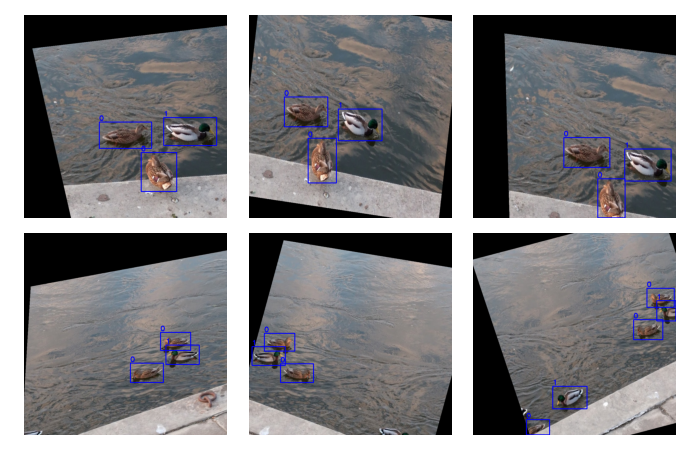
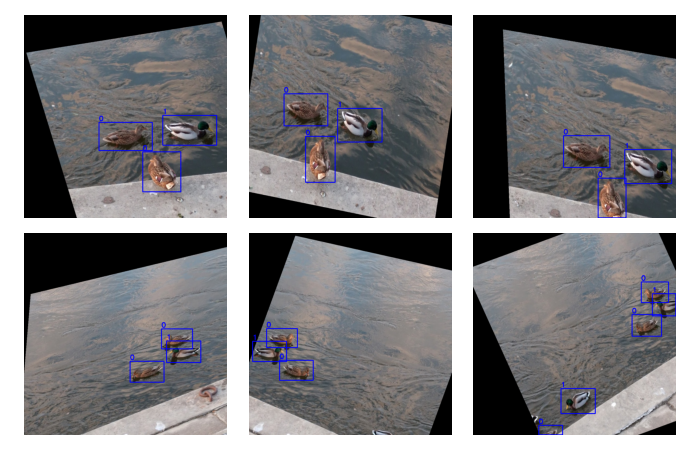
Default angle range (-20.0, 20.0)

diff --git a/targetran/tf/_tf.py b/targetran/tf/_tf.py
@@ -411,7 +411,7 @@ class TFRandomRotate(TFRandomTransform):
 
     def __init__(
             self,
-            angle_deg_range: Tuple[float, float] = (-15.0, 15.0),
+            angle_deg_range: Tuple[float, float] = (-20.0, 20.0),
             probability: float = 0.7,
             seed: Optional[int] = None
     ) -> None:
@@ -449,7 +449,7 @@ class TFRandomShear(TFRandomTransform):
 
     def __init__(
             self,
-            angle_deg_range: Tuple[float, float] = (-15.0, 15.0),
+            angle_deg_range: Tuple[float, float] = (-20.0, 20.0),
             probability: float = 0.7,
             seed: Optional[int] = None
     ) -> None:

diff --git a/targetran/np/_np.py b/targetran/np/_np.py
@@ -364,7 +364,7 @@ class RandomRotate(RandomTransform):
 
     def __init__(
             self,
-            angle_deg_range: Tuple[float, float] = (-15.0, 15.0),
+            angle_deg_range: Tuple[float, float] = (-20.0, 20.0),
             probability: float = 0.7,
             seed: Optional[int] = None
     ) -> None:
@@ -402,7 +402,7 @@ class RandomShear(RandomTransform):
 
     def __init__(
             self,
-            angle_deg_range: Tuple[float, float] = (-15.0, 15.0),
+            angle_deg_range: Tuple[float, float] = (-20.0, 20.0),
             probability: float = 0.7,
             seed: Optional[int] = None
     ) -> None:

diff --git a/README.md b/README.md
@@ -376,7 +376,7 @@ Randomly flip the input image vertically (up to down).
 ### `RandomRotate`, `TFRandomRotate`
 Randomly rotate the input image about the centre.
 - `__init__` parameters
-  - `angle_deg_range` (`Tuple[float, float]`, default `(-15.0, 15.0)`):
+  - `angle_deg_range` (`Tuple[float, float]`, default `(-20.0, 20.0)`):
     The lower and upper limits (both exclusive) of the rotation angle in degrees.
     Positive values means anti-clockwise, and vice versa. 
   - `probability` (`float`, default `0.7`): Probability to apply the transformation.
@@ -389,7 +389,7 @@ Randomly rotate the input image about the centre.
 ### `RandomShear`, `TFRandomShear`
 Randomly shear the input image horizontally about the centre.
 - `__init__` parameters
-  - `angle_deg_range` (`Tuple[float, float]`, default `(-15.0, 15.0)`):
+  - `angle_deg_range` (`Tuple[float, float]`, default `(-20.0, 20.0)`):
     The lower and upper limits (both exclusive) of the shear angle in degrees.
     Positive values means anti-clockwise, and vice versa.
     Both values should be greater than `-90.0` and less than `90.0`.
